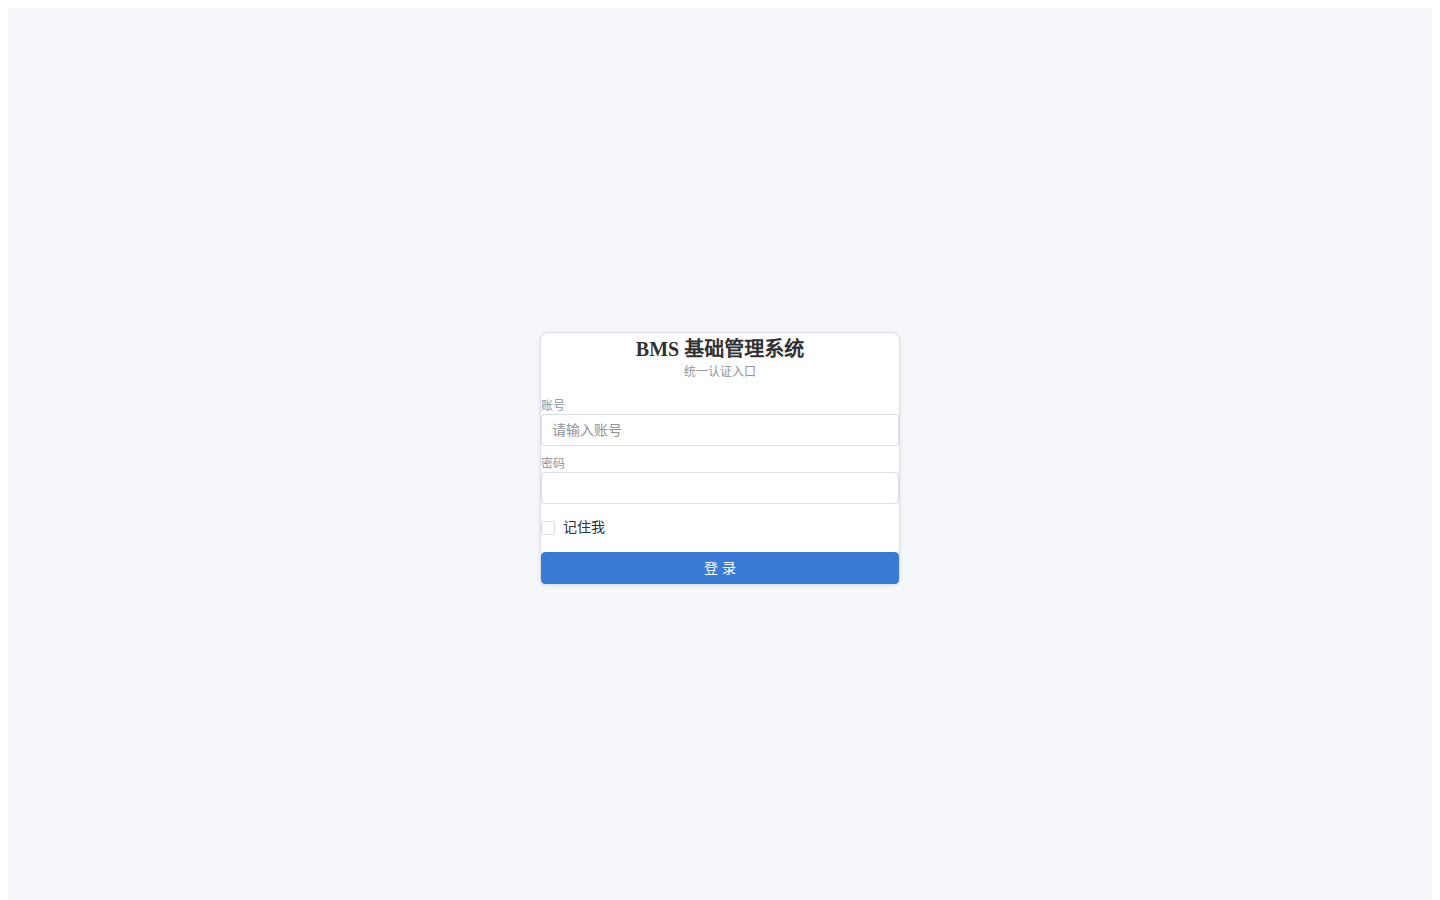
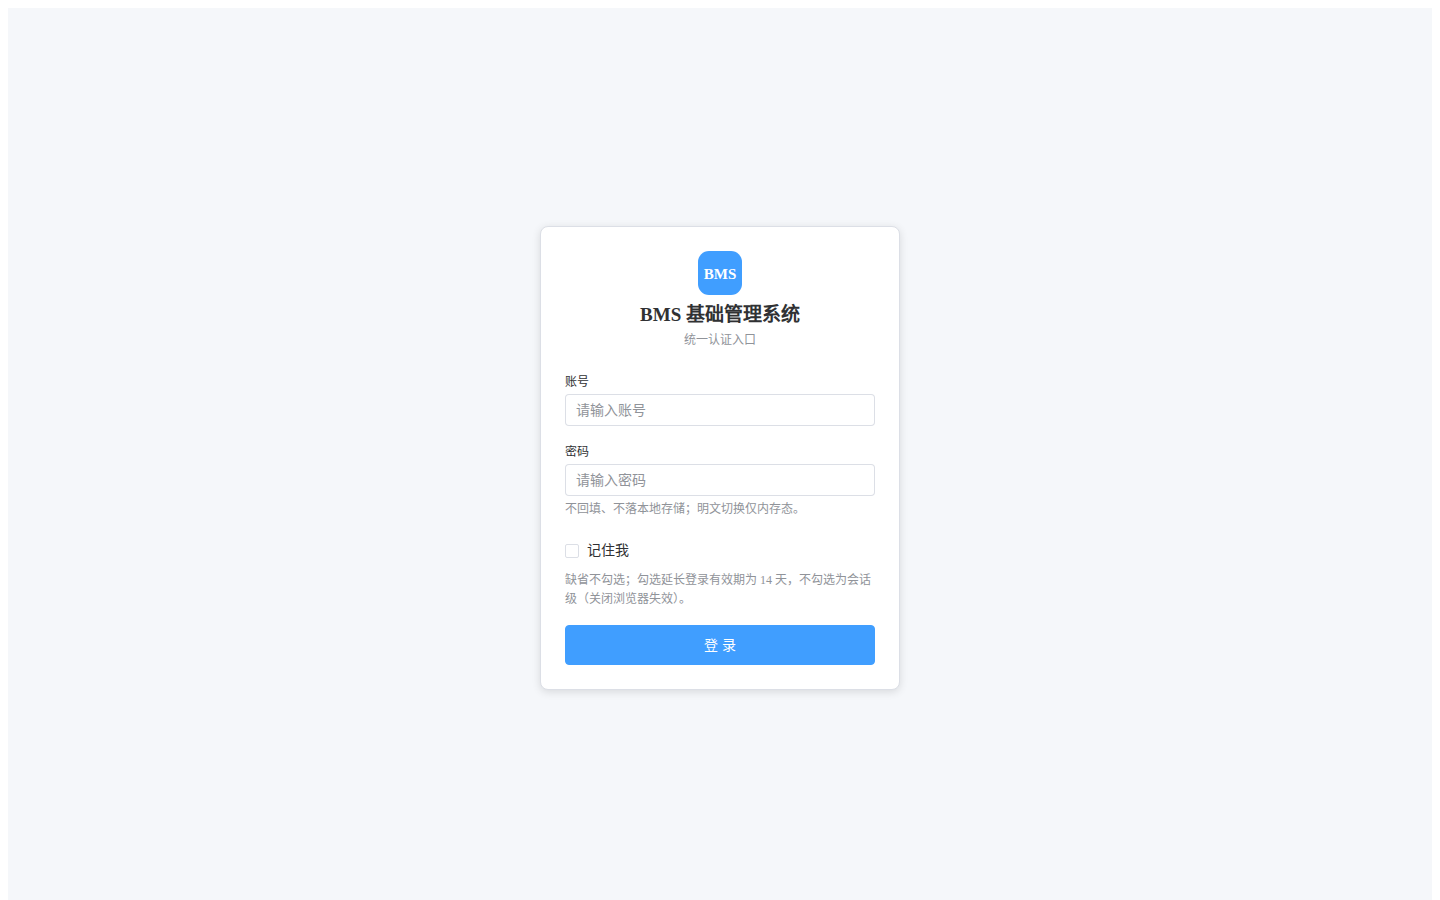
fix(ui): 登录页按原型对齐品牌区与样式细节

Changed region(s): [[0.375, 0.4044, 0.625, 0.7467], [0.4375, 0.28, 0.5625, 0.4356]]

diff --git a/frontend/apps/desktop/src/views/LoginView.vue b/frontend/apps/desktop/src/views/LoginView.vue
@@ -42,6 +42,8 @@ const captchaSource = createHttpCaptchaSource(captchaSourceOptions())
 const tenantInput = ref(getTenantCode() ?? '')
 /** 租户标识是否可见（默认隐藏；收到 `20007` 才展开）。 */
 const tenantVisible = ref(false)
+/** 是否处于「需填写租户标识」态（`20007` 后显示蓝色提示，补充租户后重提）。 */
+const needTenant = ref(false)
 /** 租户标识字段容器（展开后聚焦用）。 */
 const tenantField = ref<HTMLElement | null>(null)
 /** 登录账号。 */
@@ -156,7 +158,8 @@ function currentCaptcha(): LoginCaptchaInput | undefined {
  * 凭据校验，未消费挑战），保留验证码块状态与用户输入。
  */
 async function handleNeedTenant(): Promise<void> {
-  formError.value = resolveAuthErrorText(20007)
+  needTenant.value = true
+  formError.value = ''
   tenantVisible.value = true
   await nextTick()
   tenantField.value?.querySelector<HTMLInputElement>('[data-test="login-tenant"] input, [data-test="login-tenant"]')?.focus()
@@ -191,6 +194,8 @@ function handleLoginFailure(error: unknown): void {
     void handleNeedTenant()
     return
   }
+  // 非「需选择租户」失败即退出该态（提示随新错误清退）。
+  needTenant.value = false
   // 已登记码走文案表；**未登记码 / 非 `ApiError` 链路**优先回显服务端原文（`userMessage` → `message`）——
   // 否则一律落到「操作失败，请稍后重试」，把「验证码校验不通过」「服务暂不可用」这类可行动信息吞掉。
   formError.value = isAuthErrorCode(code) ? resolveAuthErrorText(code) : serverMessage(error) || resolveAuthErrorText(code)
@@ -278,6 +283,12 @@ onMounted(() => {
   <main class="login-view" data-test="login-view">
     <section class="login-view__card">
       <header class="login-view__brand">
+        <svg class="login-view__logo" width="44" height="44" viewBox="0 0 44 44" aria-hidden="true">
+          <rect class="login-view__logo-bg" width="44" height="44" rx="11" />
+          <text class="login-view__logo-text" x="22" y="28" text-anchor="middle" font-size="15" font-weight="700">
+            BMS
+          </text>
+        </svg>
         <h1 class="login-view__title">BMS 基础管理系统</h1>
         <p class="login-view__subtitle">统一认证入口</p>
       </header>
@@ -292,6 +303,9 @@ onMounted(() => {
             placeholder="请输入租户标识（编码）"
             data-test="login-tenant"
           />
+          <span class="login-view__hint">
+            后端无法唯一解析租户时才展开；留空表示由子域名或后端上下文解析；本机已记住的租户编码会自动带上（不显示该项）。
+          </span>
         </label>
 
         <label class="login-view__field">
@@ -306,10 +320,22 @@ onMounted(() => {
 
         <label class="login-view__field">
           <span class="login-view__label">密码</span>
-          <password-input v-model="password" :strength="false" show-toggle data-test="login-password" />
+          <password-input
+            v-model="password"
+            :strength="false"
+            show-toggle
+            placeholder="请输入密码"
+            data-test="login-password"
+          />
+          <span class="login-view__hint">不回填、不落本地存储；明文切换仅内存态。</span>
         </label>
 
-        <boolean-checkbox v-model="rememberMe" label="记住我" data-test="login-remember" />
+        <div class="login-view__remember">
+          <boolean-checkbox v-model="rememberMe" label="记住我" data-test="login-remember" />
+          <span class="login-view__hint">
+            缺省不勾选；勾选延长登录有效期为 14 天，不勾选为会话级（关闭浏览器失效）。
+          </span>
+        </div>
 
         <div v-if="captchaVisible" class="login-view__captcha" data-test="login-captcha">
           <captcha-field
@@ -322,8 +348,16 @@ onMounted(() => {
             submit-mode="defer"
             @credential="onCaptchaCredential"
             @refresh="refreshCaptcha"
-          />
+          >
+            <template #tip>
+              <span class="login-view__hint">点击图片刷新；凭证随登录请求一次性提交（校验失败自动刷新）。</span>
+            </template>
+          </captcha-field>
         </div>
+
+        <p v-if="needTenant" class="login-view__notice" data-test="login-notice">
+          {{ resolveAuthErrorText(20007) }}
+        </p>
 
         <p v-if="formError !== ''" class="login-view__error" role="alert" data-test="login-error">
           {{ formError }}
@@ -332,6 +366,7 @@ onMounted(() => {
         <el-button
           class="login-view__submit"
           type="primary"
+          size="large"
           native-type="submit"
           :loading="submitting"
           data-test="login-submit"
@@ -372,29 +407,42 @@ onMounted(() => {
 .login-view__card {
   display: flex;
   flex-direction: column;
-  gap: var(--bms-spacing-lg);
   box-sizing: border-box;
-  width: 100%;
-  max-width: 360px;
-  padding: var(--bms-spacing-xl);
+  width: 360px;
+  max-width: 100%;
+  padding: var(--bms-space-6);
   background: var(--bms-color-bg);
   border: 1px solid var(--bms-color-border);
   border-radius: var(--bms-radius-lg);
-  box-shadow: var(--bms-shadow-1);
+  box-shadow: var(--bms-shadow-sm);
 }
 
 .login-view__brand {
+  margin-bottom: var(--bms-space-6);
   text-align: center;
+}
+
+.login-view__logo {
+  display: block;
+  margin: 0 auto var(--bms-spacing-sm);
+}
+
+.login-view__logo-bg {
+  fill: var(--bms-color-primary);
+}
+
+.login-view__logo-text {
+  fill: var(--bms-color-white);
 }
 
 .login-view__title {
   margin: 0;
-  font-size: 20px;
+  font-size: 19px;
   color: var(--bms-color-text);
 }
 
 .login-view__subtitle {
-  margin: var(--bms-spacing-xs) 0 0;
+  margin: var(--bms-spacing-sm) 0 0;
   font-size: 12px;
   color: var(--bms-color-text-secondary);
 }
@@ -402,18 +450,30 @@ onMounted(() => {
 .login-view__form {
   display: flex;
   flex-direction: column;
-  gap: var(--bms-spacing-md);
+  gap: var(--bms-space-4);
 }
 
 .login-view__field {
   display: flex;
   flex-direction: column;
-  gap: var(--bms-spacing-xs);
+  gap: var(--bms-spacing-sm);
 }
 
 .login-view__label {
   font-size: 12px;
+  color: var(--bms-color-text);
+}
+
+.login-view__hint {
+  font-size: 12px;
+  line-height: 1.6;
   color: var(--bms-color-text-secondary);
+}
+
+.login-view__remember {
+  display: flex;
+  flex-direction: column;
+  gap: var(--bms-spacing-sm);
 }
 
 .login-view__captcha {
@@ -421,9 +481,17 @@ onMounted(() => {
   flex-direction: column;
 }
 
+.login-view__notice {
+  margin: 0;
+  font-size: 12px;
+  line-height: 1.6;
+  color: var(--bms-color-primary);
+}
+
 .login-view__error {
   margin: 0;
   font-size: 12px;
+  line-height: 1.6;
   color: var(--bms-color-danger);
 }
 
@@ -436,6 +504,9 @@ onMounted(() => {
   display: flex;
   flex-direction: column;
   gap: var(--bms-spacing-sm);
+  margin-top: var(--bms-space-6);
+  padding-top: var(--bms-space-4);
+  border-top: 1px solid var(--bms-color-border);
 }
 
 .login-view__sso-title {
@@ -448,7 +519,7 @@ onMounted(() => {
 .login-view__sso-list {
   display: flex;
   flex-wrap: wrap;
-  gap: var(--bms-spacing-sm);
+  gap: var(--bms-spacing-md);
   justify-content: center;
 }
 </style>

diff --git a/frontend/apps/desktop/tests/login-view.spec.ts b/frontend/apps/desktop/tests/login-view.spec.ts
@@ -249,10 +249,11 @@ describe('登录页（Kiwi 2232）', () => {
     expect(wrapper.find('[data-test="login-tenant"]').exists()).toBe(false)
     await submit(wrapper)
 
-    // 触发展开 + 聚焦 + 表单级提示。
+    // 触发展开 + 聚焦 + 蓝色提示（与登录失败红字提示分开，原型口径）。
     expect(wrapper.find('[data-test="login-tenant"]').exists()).toBe(true)
     expect(focusSpy).toHaveBeenCalled()
-    expect(wrapper.find('[data-test="login-error"]').text()).toContain('请填写租户标识')
+    expect(wrapper.find('[data-test="login-notice"]').text()).toContain('请填写租户标识')
+    expect(wrapper.find('[data-test="login-error"]').exists()).toBe(false)
     // 未消费验证码、不计失败：验证码块不出现（策略未强制）。
     expect(wrapper.find('[data-test="login-captcha"]').exists()).toBe(false)
     // 仅一次请求（未重复提交）。

diff --git a/bms文档/项目/06_认证与安全/任务/05_登录前端/05_登录前端_01_登录页真实实现/测试/01_测试_01_登录页真实实现.md b/bms文档/项目/06_认证与安全/任务/05_登录前端/05_登录前端_01_登录页真实实现/测试/01_测试_01_登录页真实实现.md
@@ -58,6 +58,7 @@
 | `python3 scripts/tools/check-docs/check-status.py --stage 06_认证与安全 --strict` | 硬规则不合规 0 / 软提示 0 |
 | 收尾补修（登录报「会话已失效」，2026-10-04） | 真机：验证码解对 + **密码错误**（`POST /auth/login` → **401 + `{code:20002}`**）→ 页面文案；随后正确口令 | 页面显示 **「账号或密码错误」**（修复前「会话已失效」/「操作失败，请稍后重试」）✅；正确口令 + 验证码 → `200` 入 `/` ✅ |
 | 收尾补修（滑块「总是报操作失败」，2026-10-04） | `pnpm --filter @bms/core exec vitest run tests/auth-error.spec.ts tests/domain-captcha.spec.ts`（**25 通过**）+ `pnpm --filter @bms/desktop exec vitest run tests/login-view.spec.ts`（**22 通过**）+ `uv run pytest libs/bms_core/tests/captcha`（**47 通过**，含组合判据回归）+ 真机五形态 | 全绿；真机：瞬移+对准 → **拒**；快速+略偏 / 慢速+略偏 / 慢速+对准 → **`200` 登录成功**；瞬移+超差 → 拒 |
+| 收尾补修（登录页原型对齐，2026-10-05） | `pnpm --filter @bms/desktop exec vitest run tests/login-view.spec.ts tests/login-check.spec.ts`（**24 通过**）+ `pnpm --filter @bms/desktop run test`（**41 文件 / 254 通过**）+ 改动文件 ESLint / `vue-tsc -b` 通过 + 真机（Chrome 1440×900）截图复核 | 全绿；登录页与原型逐项对齐（标识 / 卡片宽度 / 说明文案 / 提示色 / 按钮尺寸 / 分隔线），截图见 §4 |
 
 **核对页实测**：`tests/login-check.spec.ts` 以真实挂载方式跑通 `LoginCheck.vue` 三组 16 项自检并断言零失败项（含修正后新增的「表单件复用组件库」项：件类名齐备且裸原生 `input` / `button` 归零）；核对页本体（`login-check.html`）开发态可开，页内附带「验证码时机与延迟提交说明」「登录接线口径」两节，作为可复现验证证据。
 
@@ -71,11 +72,14 @@
 | --- | --- | --- | --- | --- |
 | 1 | 原型依据已登记 | §4.9 | 本记录基准节 + [详细设计](../设计/01_详细设计_01_登录页真实实现.md)登记原型与设计说明 | 通过 |
 | 2 | 独立全屏（不嵌主框架） | 原型标题「登录页（独立全屏页 · 居中单卡片）」 | `#app` 下仅 `main.login-view`；`hasMainLayout=false`、无侧栏 / 页签 / 顶栏搜索框（修复前同屏，见 §5 第 9 行） | 通过 |
-| 3 | 卡片居中 | 原型「居中单卡片」 | 卡片 360×253，视口 1440×900 下 `top=332`（垂直居中） | 通过 |
-| 4 | 品牌区 | 原型：BMS 标识 + 标题 + 副标题 | 「BMS 基础管理系统」+「统一认证入口」（含 BMS 标识块） | 通过 |
-| 5 | 表单区 | 原型：账号 / 密码（含「不回填、不落本地存储」说明） | 账号 + 密码（复用组件库 `TextInput` / `PasswordInput`，业务侧零裸原生件） | 通过 |
-| 6 | 记住我 | 原型：缺省不勾选（14 天 / 会话级） | 缺省不勾选；登录实测下发 `bms_refresh_token`（`path=/`、会话级）；14 天分支口径归 [需求 05-5](../../../../需求/05_需求_登录前端.md#r05-5) | 通过（口径见 05-5） |
-| 7 | 主按钮 | 原型：主色「登 录」 | 主色按钮「登 录」（组件库 `ElButton`） | 通过 |
+| 3 | 卡片居中与尺寸 | 原型「居中单卡片」、卡片固定 360px 宽 | 卡片 `width:360px` + `max-width:100%`（窄屏收缩），视口 1440×900 下水平 / 垂直居中；内容不再压缩卡片宽度 | 通过（2026-10-05 补修） |
+| 4 | 品牌区 | 原型：BMS 标识 + 标题 + 副标题 | 蓝色圆角 BMS 标识块（内联 SVG，令牌主色着色）+「BMS 基础管理系统」+「统一认证入口」 | 通过（2026-10-05 补修） |
+| 5 | 表单区 | 原型：账号 / 密码（含「不回填、不落本地存储」说明） | 账号 + 密码（复用组件库 `TextInput` / `PasswordInput`，业务侧零裸原生件）；密码带占位提示与安全说明文案 | 通过（2026-10-05 补修） |
+| 6 | 记住我 | 原型：缺省不勾选（14 天 / 会话级） | 缺省不勾选 + 原型说明文案；登录实测下发 `bms_refresh_token`（`path=/`、会话级）；14 天分支口径归 [需求 05-5](../../../../需求/05_需求_登录前端.md#r05-5) | 通过（口径见 05-5） |
+| 7 | 主按钮 | 原型：主色「登 录」 | 主色大号按钮「登 录」（组件库 `ElButton` + `size="large"`） | 通过（2026-10-05 补修） |
+| 7-1 | 字段说明文案 | 原型：租户 / 密码 / 记住我 / 验证码下的说明文字 | 四处说明文案齐备（租户展开条件、密码安全口径、记住我有效期、验证码刷新与提交口径） | 通过（2026-10-05 补修） |
+| 7-2 | 需选择租户提示 | 原型：`20007` 后蓝色提示「请填写租户标识…」 | `20007` 展开租户标识并显示蓝色提示（`data-test="login-notice"`，独立于红色错误提示），不刷新验证码、不计失败 | 通过（2026-10-05 补修） |
+| 7-3 | 第三方入口分隔 | 原型：入口区上方分隔线 | IdP 清单非空时入口区带顶部边框分隔线（清单为空整块不渲染） | 通过（2026-10-05 补修；本机无 IdP 配置） |
 | 8 | 第三方入口区 | 原型：扫码登录 / 企业微信 / 钉钉 / OIDC | 按租户 IdP 清单渲染；本机无 IdP 配置 ⇒ 不渲染（扫码登录页 `/login/qr` 归 `05_02`） | 通过（不适用项） |
 | 9 | 租户标识 | 原型：默认隐藏，`20007` 才展开 | 默认隐藏；单租户（`demo`）登录无需展开 | 通过（不适用项） |
 | 10 | 验证码 | 原型：初始不显示，失败后出现 / 策略强制 | 策略未强制 ⇒ 初始不显示（件族延迟提交，凭证随登录请求提交） | 通过（不适用项） |
@@ -95,6 +99,7 @@
 | 偏离 | 说明 | 处置 |
 | --- | --- | --- |
 | 登录页曾嵌主框架（侧栏 / 页签 / 搜索框与卡片同屏） | 宿主 `App.vue` 未豁免登录族路由（用户 2026-10-04 复核发现；见 §5 第 9 行） | **已修**：`@/router/layout-scope::isStandalonePath` + `App.vue` 三处接线；本记录截图即修复后实现 |
+| 登录页与原型视觉 / 内容差距明显（缺 BMS 标识、卡片被内容压缩未居中、说明文案缺失等） | 用户 2026-10-05 全套启动复核发现（见 §5 第 12 行） | **已修**：补标识 SVG、卡片固定 `360px`、补字段说明与占位提示、`20007` 蓝色提示、按钮 `large`、SSO 分隔线；用例与截图同步更新 |
 | 第三方入口区未渲染 | 本机无 IdP 配置（原型含演示入口与演示控制面板） | 不修——按原型口径「按租户 IdP 清单渲染」，配置就绪即呈现；扫码登录页归 `05_02` |
 | 原型底部演示控制面板 | 原型特有（非页面内容） | 不计入对照 |
 
@@ -113,6 +118,7 @@
 | 9 | 登录页被套进主框架外壳（侧栏 / 页签 / 搜索框与登录卡片同屏；**用户 2026-10-04 复核实测发现**） | 宿主 `App.vue` 未豁免登录族路由 → 抽 `@/router/layout-scope::isStandalonePath` + `App.vue` 三处接线（模板分支 / 不入页签 / 清残留页签）；用例 `tests/layout-scope.spec.ts`（4 例）+ 真机截图为证（见 §4）；阶段计划 §7 台账**第 53 项**、[实施记录 §3.11](../实施/01_实施_01_登录页真实实现.md#step-standalone) |
 | 11 | 登录页报「**会话已失效**」（用户复核实测）：密码错误时如此提示，误导为「会话过期」 | 请求层把**任何 401** 转 `SessionExpiredError`（固定文案 + 丢业务码）——后端登录失败是 `HTTP 401 + {code:20002}`，码被吞 ⇒ 文案表无从映射 | `api/http.ts` 新增 `readBusinessError`：401 **优先按业务码上抛 `ApiError(code)`**，无业务码才 `SessionExpiredError`；登录页 `serverMessage` 加 **i18n 键防线**；用例：接口层 401 带业务码 1 例 + 登录页 i18n 键 2 例；真机「验证码对 + 密码错 → 401/20002 → 页面「账号或密码错误」」；台账**第 56 项** |
 | 10 | 滑块「图形对了但**总是报操作失败**」（用户复核实测）：拖动到缺口仍失败、提示无信息量 | ① 后端轨迹**时长单独否决**（300ms）把人类快速甩动（~150ms、落点准确）判为机器轨迹（真机复现：150ms 必失败、250ms+ 通过）；② 错误码只认 `number`，字符串化 / 未登记码全部回落「操作失败，请稍后重试」 | ① 判定改**组合判据**（用户口径）：`时长 < 300ms` **且** 偏差 ≤ `slider_exact_tolerance`（新增，缺省 4px）才拒 ⇒「瞬移+精准=脚本」；「快速但略偏 / 慢速略偏 / 慢速对准」放行（+ 回归用例「150ms 且对准 → 拒；150ms 略偏 / 600ms 略偏 / 600ms 对准 → 过；超差 → 拒」）；② `core` 加 `normalizeErrorCode`（数字字符串归一）+ 补 `10007` 文案；③ 登录页未登记码回显服务端原文（**注意**：该回显需挡 i18n 键，见第 11 行）；④ 用例：core 文案表 2 例 + 登录页 1 例；真机五形态复验；台账**第 55 项** |
+| 12 | 登录页与原型差距明显（用户 2026-10-05 全套启动复核实测）：缺 BMS 标识块；卡片宽度被内容压缩、未居中（样式里 `--bms-spacing-xl` / `--bms-spacing-xs` 两个令牌未定义 ⇒ 卡片 `padding` 与字段 `gap` 失效）；密码无占位提示；租户 / 密码 / 记住我 / 验证码四组说明文案缺失；`20007` 走红色错误提示；提交按钮非 `large`；SSO 区无分隔线 | ① `LoginView.vue` 品牌区补蓝色圆角 BMS 标识（内联 SVG，CSS 类经令牌着色）；② 卡片改 `width:360px` + `max-width:100%`，`padding` / `gap` 改用已定义令牌（`--bms-space-6` / `--bms-spacing-sm`）；③ 密码补 `placeholder="请输入密码"` 与四处说明文案（验证码经 `CaptchaField` 的 `tip` 插槽）；④ 新增 `needTenant` 态 + `login-notice` 蓝色提示（与红色 `formError` 分离，`20007` 不计失败）；⑤ 提交按钮加 `size="large"`；⑥ SSO 区加顶部分隔线；⑦ 用例 `login-view.spec.ts` 的 `20007` 断言改 `login-notice` 并补「无红色错误」断言；⑧ 真机 1440×900 截图更新（§4 对照截图） |
 
 ## 6. 覆盖率 <a id="coverage"></a>
 

diff --git a/bms文档/项目/06_认证与安全/任务/05_登录前端/05_登录前端_01_登录页真实实现/实施/01_实施_01_登录页真实实现.md b/bms文档/项目/06_认证与安全/任务/05_登录前端/05_登录前端_01_登录页真实实现/实施/01_实施_01_登录页真实实现.md
@@ -191,6 +191,7 @@ pnpm run api-types:gen:check
 | 收尾补修（登录页独立全屏，2026-10-04） | `vitest run tests/layout-scope.spec.ts` + 宿主全量 `vitest run` + `lint` / `vue-tsc -b` + 真机截图（Playwright CLI） | 4 例通过 / 宿主 **252 passed** / 静态与类型全绿；截图实证未登录仅登录页（无侧栏 / 页签 / 搜索框），登录后外壳与页签正常 |
 | 收尾补修（滑块「总是报操作失败」，2026-10-04） | 真机（Playwright CLI）五形态：瞬移(~40ms)+对准 / 快速(~160ms)+略偏 7px / 慢速(~600ms)+略偏 7px / 慢速(~600ms)+对准 / 瞬移+超差 25px | **瞬移+对准 → 拒**（`20101`，「验证码错误」+ 挑战刷新）；**快速+略偏 / 慢速+略偏 / 慢速+对准 → `200` 登录成功**；瞬移+超差 → 拒 ✅ |
 | 收尾补修（登录报「会话已失效」，2026-10-04） | 真机：验证码解对 + **密码错误** → 页面文案 | `POST /auth/login` 返回 **401 + `{code:20002}`** → 页面显示 **「账号或密码错误」**（修复前显示「会话已失效」/ 更早「操作失败，请稍后重试」）✅；随后验证码正确 + 正确口令 → `200` 且入 `/` ✅ |
+| 收尾补修（登录页原型对齐，2026-10-05） | `vitest run tests/login-view.spec.ts tests/login-check.spec.ts`（24 通过）+ 宿主全量 `vitest run`（**41 文件 / 254 passed**）+ 改动文件 `eslint` / `vue-tsc -b` + 真机（Chrome 1440×900）截图复核 + `check-links` / `check-docs-scope` / `check-prototype-review --task` / `preflight --fast` | 全绿；登录页与原型的标识 / 卡片宽度 / 说明文案 / `20007` 提示色 / 按钮尺寸 / SSO 分隔线逐项对齐，截图见测试记录 §4 |
 
 ## 6. 偏差与遗留 <a id="deviations"></a>
 
@@ -202,6 +203,7 @@ pnpm run api-types:gen:check
 4. **设计校准**：`resolveLoginTenant(input, stored)` 收敛为 `normalizeLoginTenant(input)`（「可清空即不携带」优先，回落持久化值会使清空失效）；设计 §3.6 已同步。
 5. **实施后修正（用户复核）**：表单件一律复用组件库件并接入宿主 Element Plus 样式（原自绘原生输入 / 按钮为偏离），明细见 §3.8；`budget.json` 首屏上限同步 260 → 280 KB 并写明原因。
 6. **复核后新增（基座级，超出本任务原始范围，经用户明确要求）**：浏览器内核实测发现「23 个 dev 核对页入口漏引 Element Plus 样式」缺口 → 新增样式聚合入口 `styles/index.ts` 与业务侧组件库件复用护栏 `guard-library-components.spec.ts`，并修 15 个 dev 核对页与 1 个运行时模块的裸原生元素；口径已回写《前端开发规范》§9 与《前端基类清单》，明细见 §3.9。
+7. **复核后修正（用户 2026-10-05 全套启动复核）**：登录页与原型存在视觉 / 内容差距（缺 BMS 标识块、卡片被内容压缩、字段说明文案缺失、`20007` 走红色提示、按钮非 `large`、SSO 区无分隔线）→ 按原型逐项对齐；同时修正样式里两处**未定义令牌**（`--bms-spacing-xl` / `--bms-spacing-xs`）导致的卡片 `padding` 与字段 `gap` 失效。用例与对照截图同步更新，明细见测试记录 §4 与 §5 第 12 行。
 
 **遗留（归口）**：
 
